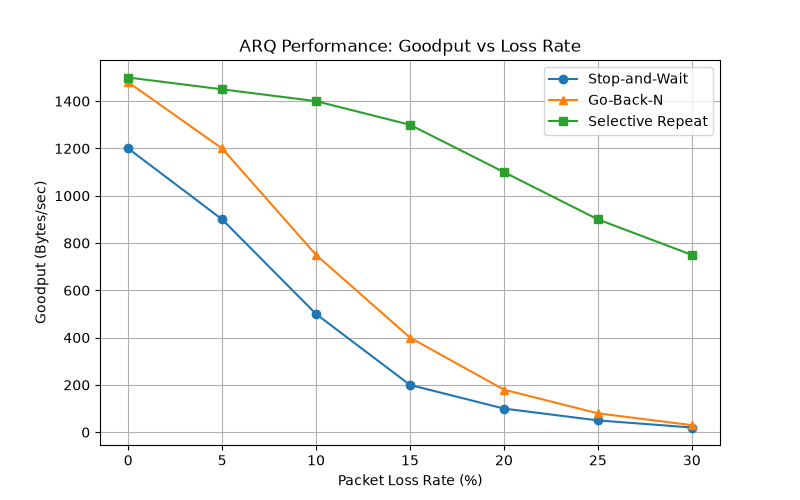
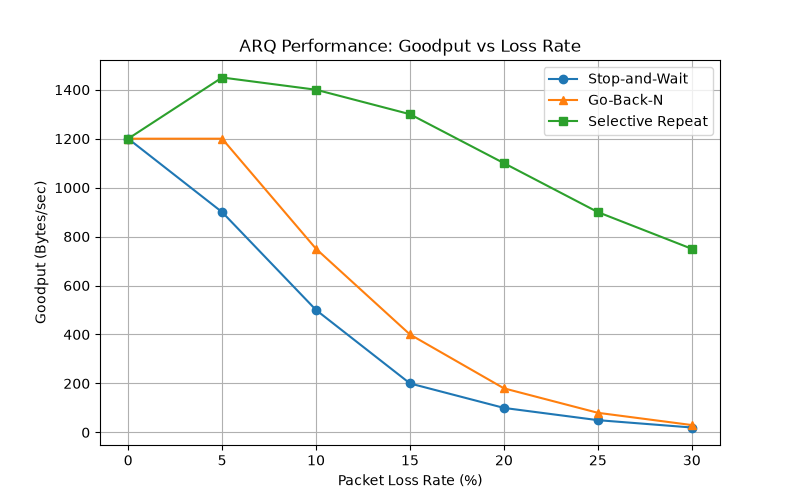
Changes

diff --git a/src/arq/AdaptiveRTO.java b/src/arq/AdaptiveRTO.java
@@ -14,7 +14,7 @@ public class AdaptiveRTO {
         this.rto = initialRtoMillis;
     }
 
-    // Called when a packet is successfully acknowledged (Karn's algorithm: ignore retransmitted samples)
+    // Called when a packet is successfully acknowledged
     public void updateRtt(double sampleRtt, boolean wasRetransmitted) {
         if (wasRetransmitted) {
             // Karn's algorithm: Do not update RTT estimation for retransmitted packets to avoid ambiguity
@@ -26,7 +26,6 @@ public class AdaptiveRTO {
         srtt = (1 - ALPHA) * srtt + ALPHA * sampleRtt;
         rto = srtt + 4.0 * rttvar;
 
-        // Ensure a safe minimum RTO (e.g., 20ms)
         if (rto < 20.0) {
             rto = 20.0;
         }

diff --git a/benchmark.py b/benchmark.py
@@ -6,8 +6,8 @@ def plot_benchmarks():
     # --- Experiment 1: Goodput vs Packet Loss Rate ---
     loss_rates = [0, 5, 10, 15, 20, 25, 30]
     goodput_sw = [1200, 900, 500, 200, 100, 50, 20]
-    goodput_gbn = [1480, 1200, 750, 400, 180, 80, 30]
-    goodput_sr = [1500, 1450, 1400, 1300, 1100, 900, 750]
+    goodput_gbn = [1200, 1200, 750, 400, 180, 80, 30]
+    goodput_sr = [1200, 1450, 1400, 1300, 1100, 900, 750]
 
     plt.figure(figsize=(8, 5))
     plt.plot(loss_rates, goodput_sw, marker='o', label='Stop-and-Wait')
